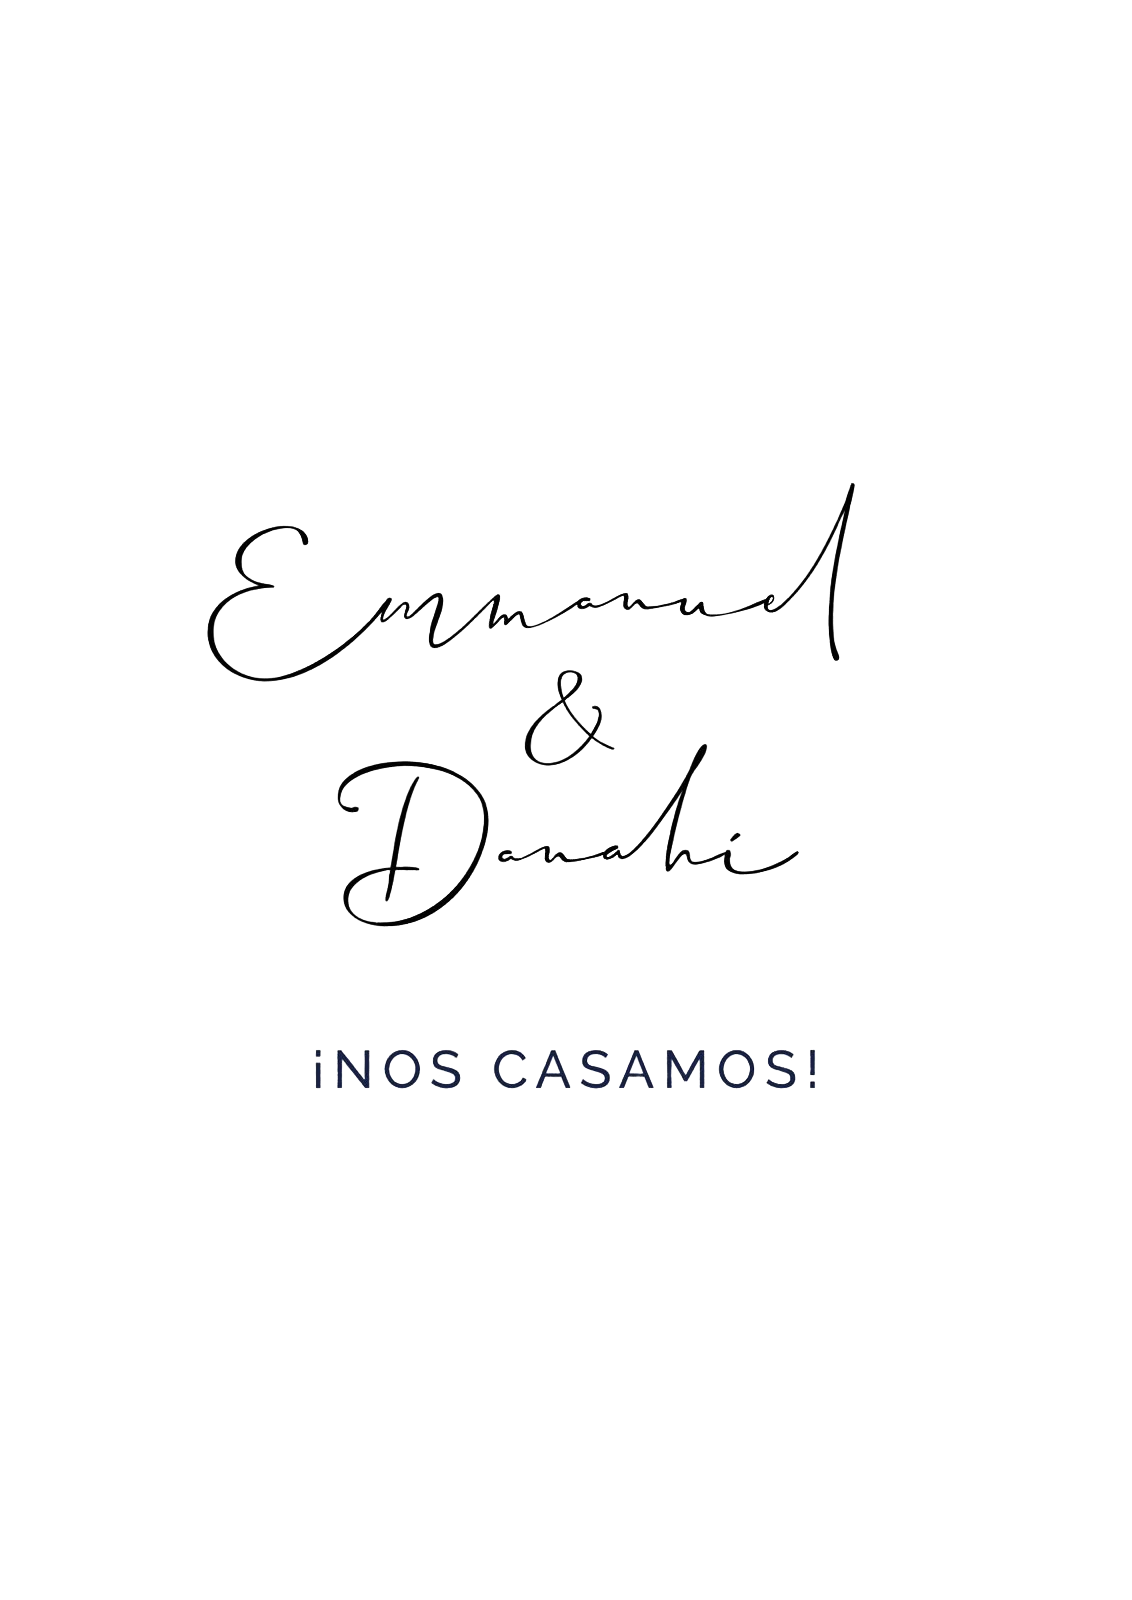
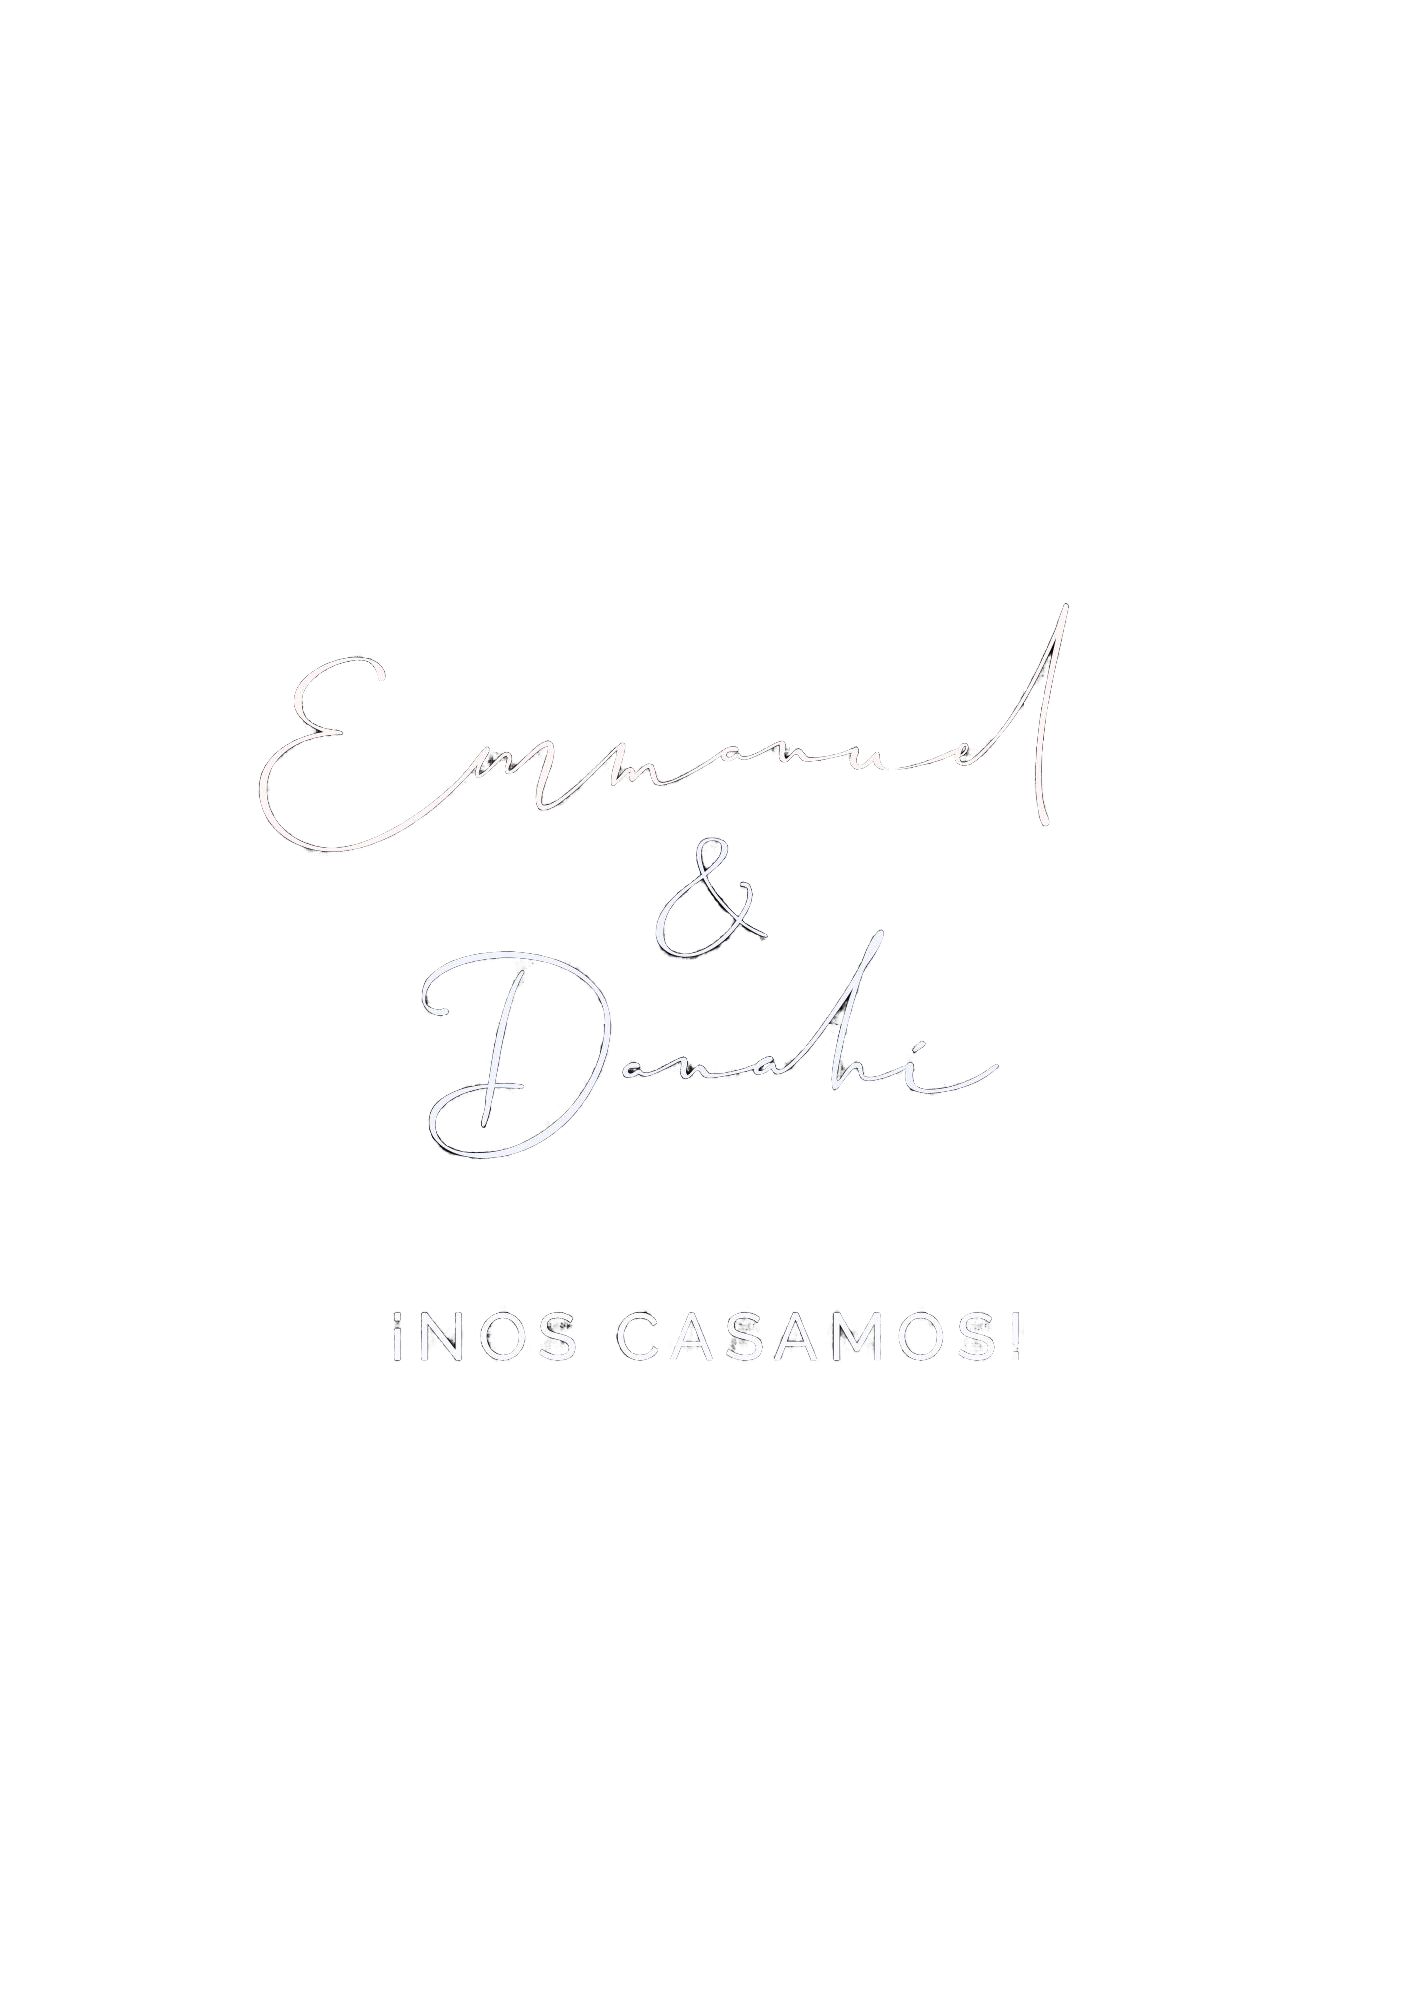
Update first screen, bg

diff --git a/style.css b/style.css
@@ -110,7 +110,7 @@ input, textarea {
 
 .eyd-image {
   width: 100%;
-  max-width: 500px;
+  max-width: 1000px;
   height: auto;
   display: block;
   margin: 1rem auto;
@@ -122,12 +122,12 @@ input, textarea {
 
 /* HERO */
 .hero {
-  background-image: url('assets/nueva-portada.jpg');
+  background-image: linear-gradient(to bottom, rgba(255, 248, 243, 0), #fff8f3), url('assets/pedidad2.jpg');
   background-size: cover;
   background-position: center;
   background-repeat: no-repeat;
   position: relative;
-  height: 85vh;
+  height: 70vh;
   color: #222;
   display: flex;
   align-items: center;

diff --git a/index.html b/index.html
@@ -12,7 +12,7 @@
     <!-- Hero / Portada -->
     <section class="hero section">
       <div class="hero-overlay">
-            <img src="assets/EyD.jpg" alt="Código de vestimenta" class="eyd-image">
+            <img src="assets/EyD_black.jpg" alt="Código de vestimenta" class="eyd-image">
         <p class="intro">Nos encantaría que seas parte de este momento tan especial para nosotros. ¡Falta muy poco!</p>
         <div id="countdown"></div>
       </div>
